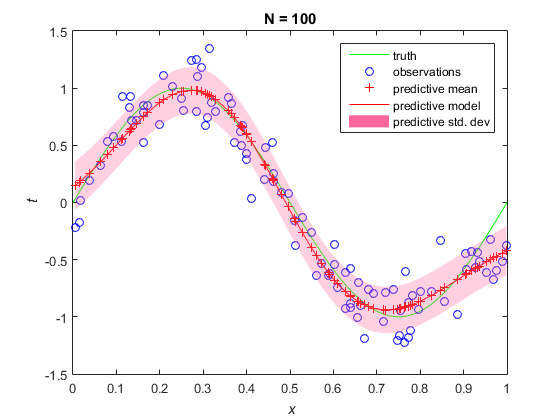
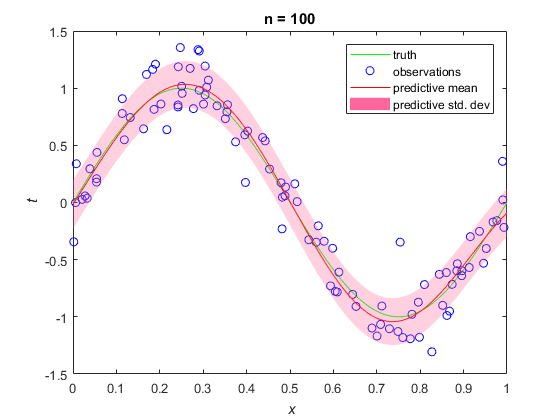
Updated Figure 3.8 for continuous predictive model plot

Changed region(s): [[0.1214, 0.031, 0.9107, 0.8976], [0.7589, 0.5571, 0.7893, 0.5881], [0.6982, 0.5571, 0.7286, 0.5881]]

diff --git a/proj2/html/proj2_3_8.html b/proj2/html/proj2_3_8.html
@@ -6,7 +6,7 @@
    <!--
 This HTML was auto-generated from MATLAB code.
 To make changes, update the MATLAB code and republish this document.
-      --><title>ECE414 Makeene Learning - Project 2, Part II</title><meta name="generator" content="MATLAB 8.5"><link rel="schema.DC" href="http://purl.org/dc/elements/1.1/"><meta name="DC.date" content="2017-09-30"><meta name="DC.source" content="proj2_3_8.m"><style type="text/css">
+      --><title>ECE414 Makeene Learning - Project 2, Part II</title><meta name="generator" content="MATLAB 9.2"><link rel="schema.DC" href="http://purl.org/dc/elements/1.1/"><meta name="DC.date" content="2017-10-10"><meta name="DC.source" content="proj2_3_8.m"><style type="text/css">
 html,body,div,span,applet,object,iframe,h1,h2,h3,h4,h5,h6,p,blockquote,pre,a,abbr,acronym,address,big,cite,code,del,dfn,em,font,img,ins,kbd,q,s,samp,small,strike,strong,sub,sup,tt,var,b,u,i,center,dl,dt,dd,ol,ul,li,fieldset,form,label,legend,table,caption,tbody,tfoot,thead,tr,th,td{margin:0;padding:0;border:0;outline:0;font-size:100%;vertical-align:baseline;background:transparent}body{line-height:1}ol,ul{list-style:none}blockquote,q{quotes:none}blockquote:before,blockquote:after,q:before,q:after{content:'';content:none}:focus{outine:0}ins{text-decoration:none}del{text-decoration:line-through}table{border-collapse:collapse;border-spacing:0}
 
 html { min-height:100%; margin-bottom:1px; }
@@ -67,7 +67,7 @@ table td { padding:7px 5px; text-align:left; vertical-align:top; border:1px soli
 
 
   </style></head><body><div class="content"><h1>ECE414 Makeene Learning - Project 2, Part II</h1><!--introduction--><pre class="language-matlab">By <span class="string">Jeffrey</span> <span class="string">Shih</span>
-</pre><!--/introduction--><h2>Contents</h2><div><ul><li><a href="#1">Linear Regression, Predictive Distribution - Data Generation</a></li><li><a href="#2">Linear Regression, Predictive Distribution - Plotting Figure 3.8</a></li></ul></div><h2>Linear Regression, Predictive Distribution - Data Generation<a name="1"></a></h2><pre class="codeinput">clc; clear <span class="string">all</span>; close <span class="string">all</span>;
+</pre><!--/introduction--><h2>Contents</h2><div><ul><li><a href="#1">Linear Regression, Predictive Distribution - Data Generation</a></li><li><a href="#2">Linear Regression, Predictive Distribution - Plotting Figure 3.8</a></li></ul></div><h2 id="1">Linear Regression, Predictive Distribution - Data Generation</h2><pre class="codeinput">clc; clear <span class="string">all</span>; close <span class="string">all</span>;
 
 <span class="comment">% Generate random observations from uniform distribution U(x|0,1)</span>
 <span class="comment">% We want to see the effect on increasing # of observations N on</span>
@@ -90,14 +90,18 @@ S0 = alpha^(-1)*eye(nWeights);
 m0 = zeros(nWeights,1);
 
 <span class="comment">% Parameters for Gaussian basis functions (see P139, 3.4)</span>
-u = linspace(0,2.5,9); <span class="comment">% locations of basis in input space</span>
+u = linspace(-1,1,9); <span class="comment">% locations of basis in input space</span>
 s = 0.2; <span class="comment">% spatial scale of basis</span>
-</pre><h2>Linear Regression, Predictive Distribution - Plotting Figure 3.8<a name="2"></a></h2><pre class="codeinput">close <span class="string">all</span>;
+</pre><h2 id="2">Linear Regression, Predictive Distribution - Plotting Figure 3.8</h2><pre class="codeinput">close <span class="string">all</span>;
 
 <span class="comment">% Initialize plot</span>
 <span class="comment">% We're plotting both n=1 and n=N so that publish displays 2 graphs</span>
 figure;
 update_plot_3_8(N,N,nWeights,x,t,beta,m0,S0,u,s)
+figure;
+update_plot_3_8(5,N,nWeights,x,t,beta,m0,S0,u,s)
+figure;
+update_plot_3_8(1,N,nWeights,x,t,beta,m0,S0,u,s)
 f = figure;
 update_plot_3_8(0,N,nWeights,x,t,beta,m0,S0,u,s)
 
@@ -113,7 +117,7 @@ slider_label2 = uicontrol(<span class="string">'Parent'</span>,f,<span class="st
 <span class="comment">% Set slider callback to update plot, need to round the slider value</span>
 <span class="comment">% because it might not be an integer</span>
 slider.Callback = @(es,ed) update_plot_3_8(round(es.Value),N,nWeights,x,t,beta,m0,S0,u,s);
-</pre><img vspace="5" hspace="5" src="proj2_3_8_01.png" alt=""> <img vspace="5" hspace="5" src="proj2_3_8_02.png" alt=""> <p class="footer"><br><a href="http://www.mathworks.com/products/matlab/">Published with MATLAB&reg; R2015a</a><br></p></div><!--
+</pre><img vspace="5" hspace="5" src="proj2_3_8_01.png" alt=""> <img vspace="5" hspace="5" src="proj2_3_8_02.png" alt=""> <img vspace="5" hspace="5" src="proj2_3_8_03.png" alt=""> <img vspace="5" hspace="5" src="proj2_3_8_04.png" alt=""> <p class="footer"><br><a href="http://www.mathworks.com/products/matlab/">Published with MATLAB&reg; R2017a</a><br></p></div><!--
 ##### SOURCE BEGIN #####
 %%  ECE414 Makeene Learning - Project 2, Part II
 %   By Jeffrey Shih
@@ -143,7 +147,7 @@ S0 = alpha^(-1)*eye(nWeights);
 m0 = zeros(nWeights,1);
 
 % Parameters for Gaussian basis functions (see P139, 3.4)
-u = linspace(0,2.5,9); % locations of basis in input space
+u = linspace(-1,1,9); % locations of basis in input space
 s = 0.2; % spatial scale of basis
 
 %% Linear Regression, Predictive Distribution - Plotting Figure 3.8
@@ -154,6 +158,10 @@ close all;
 % We're plotting both n=1 and n=N so that publish displays 2 graphs
 figure;
 update_plot_3_8(N,N,nWeights,x,t,beta,m0,S0,u,s)
+figure;
+update_plot_3_8(5,N,nWeights,x,t,beta,m0,S0,u,s)
+figure;
+update_plot_3_8(1,N,nWeights,x,t,beta,m0,S0,u,s)
 f = figure;
 update_plot_3_8(0,N,nWeights,x,t,beta,m0,S0,u,s)
 

diff --git a/proj2/html/proj2_3_7.html b/proj2/html/proj2_3_7.html
@@ -6,7 +6,7 @@
    <!--
 This HTML was auto-generated from MATLAB code.
 To make changes, update the MATLAB code and republish this document.
-      --><title>ECE414 Makeene Learning - Project 2, Part I</title><meta name="generator" content="MATLAB 8.5"><link rel="schema.DC" href="http://purl.org/dc/elements/1.1/"><meta name="DC.date" content="2017-10-09"><meta name="DC.source" content="proj2_3_7.m"><style type="text/css">
+      --><title>ECE414 Makeene Learning - Project 2, Part I</title><meta name="generator" content="MATLAB 9.2"><link rel="schema.DC" href="http://purl.org/dc/elements/1.1/"><meta name="DC.date" content="2017-10-10"><meta name="DC.source" content="proj2_3_7.m"><style type="text/css">
 html,body,div,span,applet,object,iframe,h1,h2,h3,h4,h5,h6,p,blockquote,pre,a,abbr,acronym,address,big,cite,code,del,dfn,em,font,img,ins,kbd,q,s,samp,small,strike,strong,sub,sup,tt,var,b,u,i,center,dl,dt,dd,ol,ul,li,fieldset,form,label,legend,table,caption,tbody,tfoot,thead,tr,th,td{margin:0;padding:0;border:0;outline:0;font-size:100%;vertical-align:baseline;background:transparent}body{line-height:1}ol,ul{list-style:none}blockquote,q{quotes:none}blockquote:before,blockquote:after,q:before,q:after{content:'';content:none}:focus{outine:0}ins{text-decoration:none}del{text-decoration:line-through}table{border-collapse:collapse;border-spacing:0}
 
 html { min-height:100%; margin-bottom:1px; }
@@ -67,7 +67,7 @@ table td { padding:7px 5px; text-align:left; vertical-align:top; border:1px soli
 
 
   </style></head><body><div class="content"><h1>ECE414 Makeene Learning - Project 2, Part I</h1><!--introduction--><pre class="language-matlab">By <span class="string">Jeffrey</span> <span class="string">Shih</span>
-</pre><!--/introduction--><h2>Contents</h2><div><ul><li><a href="#1">Linear Regression, Parameter Distribution - Data Generation</a></li><li><a href="#2">Linear Regression, Parameter Distribution - Estimating Model Parameters</a></li><li><a href="#3">Linear Regression, Parameter Distribution - Plotting Figure 3.7</a></li></ul></div><h2>Linear Regression, Parameter Distribution - Data Generation<a name="1"></a></h2><pre class="codeinput">clc; clear <span class="string">all</span>; close <span class="string">all</span>;
+</pre><!--/introduction--><h2>Contents</h2><div><ul><li><a href="#1">Linear Regression, Parameter Distribution - Data Generation</a></li><li><a href="#2">Linear Regression, Parameter Distribution - Estimating Model Parameters</a></li><li><a href="#3">Linear Regression, Parameter Distribution - Plotting Figure 3.7</a></li></ul></div><h2 id="1">Linear Regression, Parameter Distribution - Data Generation</h2><pre class="codeinput">clc; clear <span class="string">all</span>; close <span class="string">all</span>;
 
 <span class="comment">% Model weights (we want to estimate these)</span>
 w0 = -0.3;
@@ -88,7 +88,7 @@ t = linear_model_function(x,w0,w1);
 sigma = 0.2;
 noise = randn(N,1)*sigma; <span class="comment">% scale standard normal so that std. dev becomes 0.2</span>
 t = t + noise;
-</pre><h2>Linear Regression, Parameter Distribution - Estimating Model Parameters<a name="2"></a></h2><pre class="codeinput"><span class="comment">% Number of weight estimate samples we are taking from distribution</span>
+</pre><h2 id="2">Linear Regression, Parameter Distribution - Estimating Model Parameters</h2><pre class="codeinput"><span class="comment">% Number of weight estimate samples we are taking from distribution</span>
 nSamples = 6;
 
 <span class="comment">% Noise parameter</span>
@@ -151,7 +151,7 @@ w_est_LS = []; <span class="comment">% matrix to store all estimated weights, N*
 <span class="comment">%w_est_prior</span>
 <span class="comment">%w_est_matrix</span>
 <span class="comment">%w_est_LS</span>
-</pre><h2>Linear Regression, Parameter Distribution - Plotting Figure 3.7<a name="3"></a></h2><pre class="codeinput">close <span class="string">all</span>;
+</pre><h2 id="3">Linear Regression, Parameter Distribution - Plotting Figure 3.7</h2><pre class="codeinput">close <span class="string">all</span>;
 
 <span class="comment">% Initialize plot</span>
 <span class="comment">% We're plotting both n=1 and n=N so that publish displays 2 graphs</span>
@@ -172,7 +172,7 @@ slider_label2 = uicontrol(<span class="string">'Parent'</span>,f,<span class="st
 <span class="comment">% Set slider callback to update plot, need to round the slider value</span>
 <span class="comment">% because it might not be an integer</span>
 slider.Callback = @(es,ed) update_plot_3_7(round(es.Value),N,nSamples,w,x,t,alpha,beta,w_est_prior,w_est_matrix,w_est_LS);
-</pre><img vspace="5" hspace="5" src="proj2_3_7_01.png" alt=""> <img vspace="5" hspace="5" src="proj2_3_7_02.png" alt=""> <p class="footer"><br><a href="http://www.mathworks.com/products/matlab/">Published with MATLAB&reg; R2015a</a><br></p></div><!--
+</pre><img vspace="5" hspace="5" src="proj2_3_7_01.png" alt=""> <img vspace="5" hspace="5" src="proj2_3_7_02.png" alt=""> <p class="footer"><br><a href="http://www.mathworks.com/products/matlab/">Published with MATLAB&reg; R2017a</a><br></p></div><!--
 ##### SOURCE BEGIN #####
 %%  ECE414 Makeene Learning - Project 2, Part I
 %   By Jeffrey Shih

diff --git a/proj2/update_plot_3_8.m b/proj2/update_plot_3_8.m
@@ -2,8 +2,24 @@
 % Calculate predictive distributions for increasing # of observations
 function update_plot_3_8(n,N,nWeights,x,t,beta,m0,S0,u,s)
 
-    % Populate design matrix by evaluate all basis functions for each xn
-    % (see P142, 3.16)
+    % This is the "continuous" range of values that we're plotting the
+    % our distribution for; different from x, which represents our observations
+    x_truth = (0:0.01:1)'; % column vector
+    
+    % Only plot truth if no observations
+    if n == 0
+        plot(x_truth,sin(2*pi*x_truth),'g')
+        title(sprintf('n = %d',n))
+        xlabel('\it x')
+        ylabel('\it t')
+        axis([0 1 -1.5 1.5])
+        legend('truth')
+        return
+    end
+
+    % Populate design matrix by evaluating all basis functions for each xn
+    % that we have already seen (see P142, 3.16)
+    % We use this to find the posterior parameters below
     PHI = [];
     for m = 1:nWeights
         PHI = [PHI gaussian_basis_function(x(1:n),u(m),s)];
@@ -12,25 +28,34 @@ function update_plot_3_8(n,N,nWeights,x,t,beta,m0,S0,u,s)
     % Posterior parameters (see P153, 3.50, 3.51)
     SN = pinv(pinv(S0) + beta*PHI'*PHI);
     mN = SN*(pinv(S0)*m0 + beta*PHI'*t(1:n));
-
+    
+    % New design matrix for each possible value of x_truth, used to form
+    % our distribution curve
+    PHI_truth = [];
+    for m = 1:nWeights
+        PHI_truth = [PHI_truth gaussian_basis_function(x_truth,u(m),s)];
+    end
+    
     % Predictive distribution parameters (see P156, 3.58, 3.59)
-    % Go through each target and find the mean and variance associated with it
-    mP = [];
+    % Calculate mean and variance for each point in input x_truth for
+    % continuous looking graph
+    %mP = [];
     SP = [];
-    for i = 1:n
-        phi_x = PHI(i,:)'; % P146, phi(x) is an M-dim COLUMN vector with elements
-                           % phi_j(x), so we're just looking at the basis
-                           % function evaluated for one observation
-        mP_i = mN'*phi_x;
+    for i = 1:length(x_truth)
+        phi_x = PHI_truth(i,:)'; % P146, phi(x) is an M-dim COLUMN vector with elements
+                                % phi_j(x), so we're just looking at the basis
+                                % function evaluated for one observation
+        %mP_i = mN'*phi_x;
         SP_i = 1/beta + phi_x'*SN*phi_x;
-        mP = [mP; mP_i];
+        %mP = [mP; mP_i];
         SP = [SP; SP_i];
     end
+    % Can also do mP as follows:
+    y_pred = (mN'*PHI_truth')'; % transpose again to make column vector
 
     % Plot figures
 
     % Truth (green line)
-    x_truth = 0:0.01:1;
     plot(x_truth,sin(2*pi*x_truth),'g')
     hold on
 
@@ -39,23 +64,18 @@ function update_plot_3_8(n,N,nWeights,x,t,beta,m0,S0,u,s)
     hold on
 
     % Mean of Predictive Distribution (red line)
-    scatter(x(1:n),mP,'r+')
+    % This curve represents our model estimate
+    plot(x_truth,y_pred,'r')
     hold on
-    % Sort the numbers before you plot line so it doesn't look like a mess
-    [sorted_x, sorted_i] = sort(x(1:n));
-    plot(sorted_x,mP(sorted_i),'r')
-    hold on
-
+    
     % Std. Dev of Predictive Distribution (red shaded region)
     % Don't forget to take the root of SP
-    %plot(sorted_x,mP(sorted_i)+sqrt(SP(sorted_i)),'k')
-    %plot(sorted_x,mP(sorted_i)-sqrt(SP(sorted_i)),'k')
-    top_y = mP(sorted_i)+sqrt(SP(sorted_i)); % upper bound for std.dev
-    bot_y = mP(sorted_i)-sqrt(SP(sorted_i)); % lower bound
+    top_y = y_pred+sqrt(SP); % upper bound for std.dev
+    bot_y = y_pred-sqrt(SP); % lower bound
     % Draw polygon, start at bot and go from left to right,
     % then move to top and go from right to left
     % Transpose so that they're all row vectors (easier to visualize)
-    X = [sorted_x' fliplr(sorted_x')];
+    X = [x_truth' fliplr(x_truth')];
     Y = [bot_y' fliplr(top_y')];
     color = [1 0.4 0.6];
     h = fill(X,Y,color);
@@ -63,17 +83,12 @@ function update_plot_3_8(n,N,nWeights,x,t,beta,m0,S0,u,s)
     alpha(0.3) % make filled region slightly transparent
     %uistack(h,'bottom') % moves this shading behind all other plots
     hold on
-
+    
     % Plot labels
     title(sprintf('n = %d',n))
     xlabel('\it x')
     ylabel('\it t')
     axis([0 1 -1.5 1.5])
-    % Don't include extra legend entries if unnecessary (will cause issues)
-    if n == 0
-        legend('truth')
-    else
-        legend('truth','observations','predictive mean','predictive model','predictive std. dev')
-    end
+    legend('truth','observations','predictive mean','predictive std. dev')
     hold off
 end

diff --git a/proj2/proj2_3_8.m b/proj2/proj2_3_8.m
@@ -37,6 +37,10 @@ close all;
 % We're plotting both n=1 and n=N so that publish displays 2 graphs
 figure;
 update_plot_3_8(N,N,nWeights,x,t,beta,m0,S0,u,s)
+figure;
+update_plot_3_8(5,N,nWeights,x,t,beta,m0,S0,u,s)
+figure;
+update_plot_3_8(1,N,nWeights,x,t,beta,m0,S0,u,s)
 f = figure;
 update_plot_3_8(0,N,nWeights,x,t,beta,m0,S0,u,s)
 
